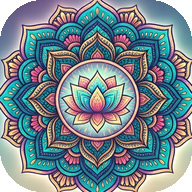
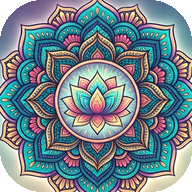
Add files via upload

diff --git a/sw.js b/sw.js
@@ -1,5 +1,5 @@
 // Recordá bumpear esta versión en cada deploy
-const CACHE_NAME = 'mandalas-v47';
+const CACHE_NAME = 'mandalas-v48';
 const APP_SHELL = [
   './index.html',
   './manifest.json',
